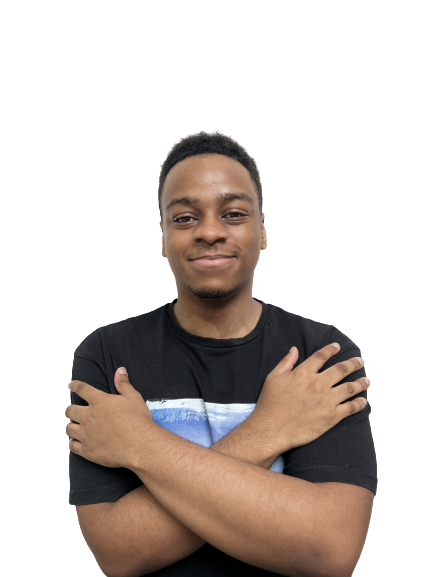
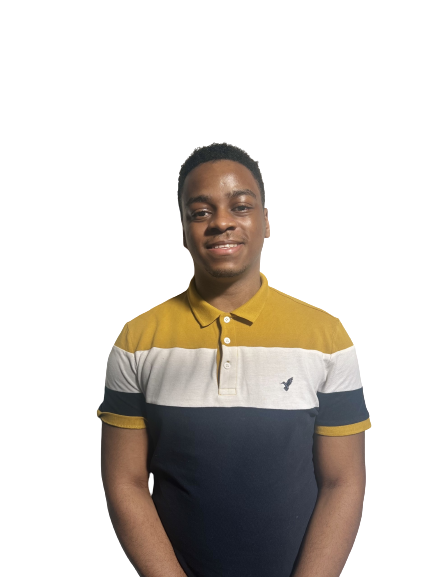
Nieuwe foto's

diff --git a/members/index.html b/members/index.html
@@ -70,9 +70,9 @@
                 </description>
             </article>
             <article>
-                <img class="squadImage" src="../assets/Klasgenoot.png" alt="">
+                <img class="squadImage" src="../assets/Hadil.png" alt="">
                 <description>
-                    <a class="name">Naam</a><br>
+                    <a class="name">Hadil</a><br>
                     <a class="description">Description</a>
                 </description>
             </article>
@@ -112,7 +112,7 @@
                 </description>
             </article>
             <article>
-                <img class="squadImage" src="../assets/Placeholder.png" alt="">
+                <img class="squadImage" src="../assets/Viktor.png" alt="">
                 <description>
                     <a class="name">Viktor</a><br>
                     <a class="description">Description</a>
@@ -140,9 +140,30 @@
                 </description>
             </article>
             <article>
-                <img class="squadImage" src="../assets/Placeholder.png" alt="">
+                <img class="squadImage" src="../assets/Phyllis.png" alt="">
                 <description>
-                    <a class="name">Naam</a><br>
+                    <a class="name">Phyllis</a><br>
+                    <a class="description">Description</a>
+                </description>
+            </article>
+            <article>
+                <img class="squadImage" src="../assets/Lemuel.png" alt="">
+                <description>
+                    <a class="name">Lemuel</a><br>
+                    <a class="description">Description</a>
+                </description>
+            </article>
+            <article>
+                <img class="squadImage" src="../assets/Gita.png" alt="">
+                <description>
+                    <a class="name">Gita</a><br>
+                    <a class="description">Description</a>
+                </description>
+            </article>
+            <article>
+                <img class="squadImage" src="../assets/Justin.png" alt="">
+                <description>
+                    <a class="name">Justin</a><br>
                     <a class="description">Description</a>
                 </description>
             </article>
